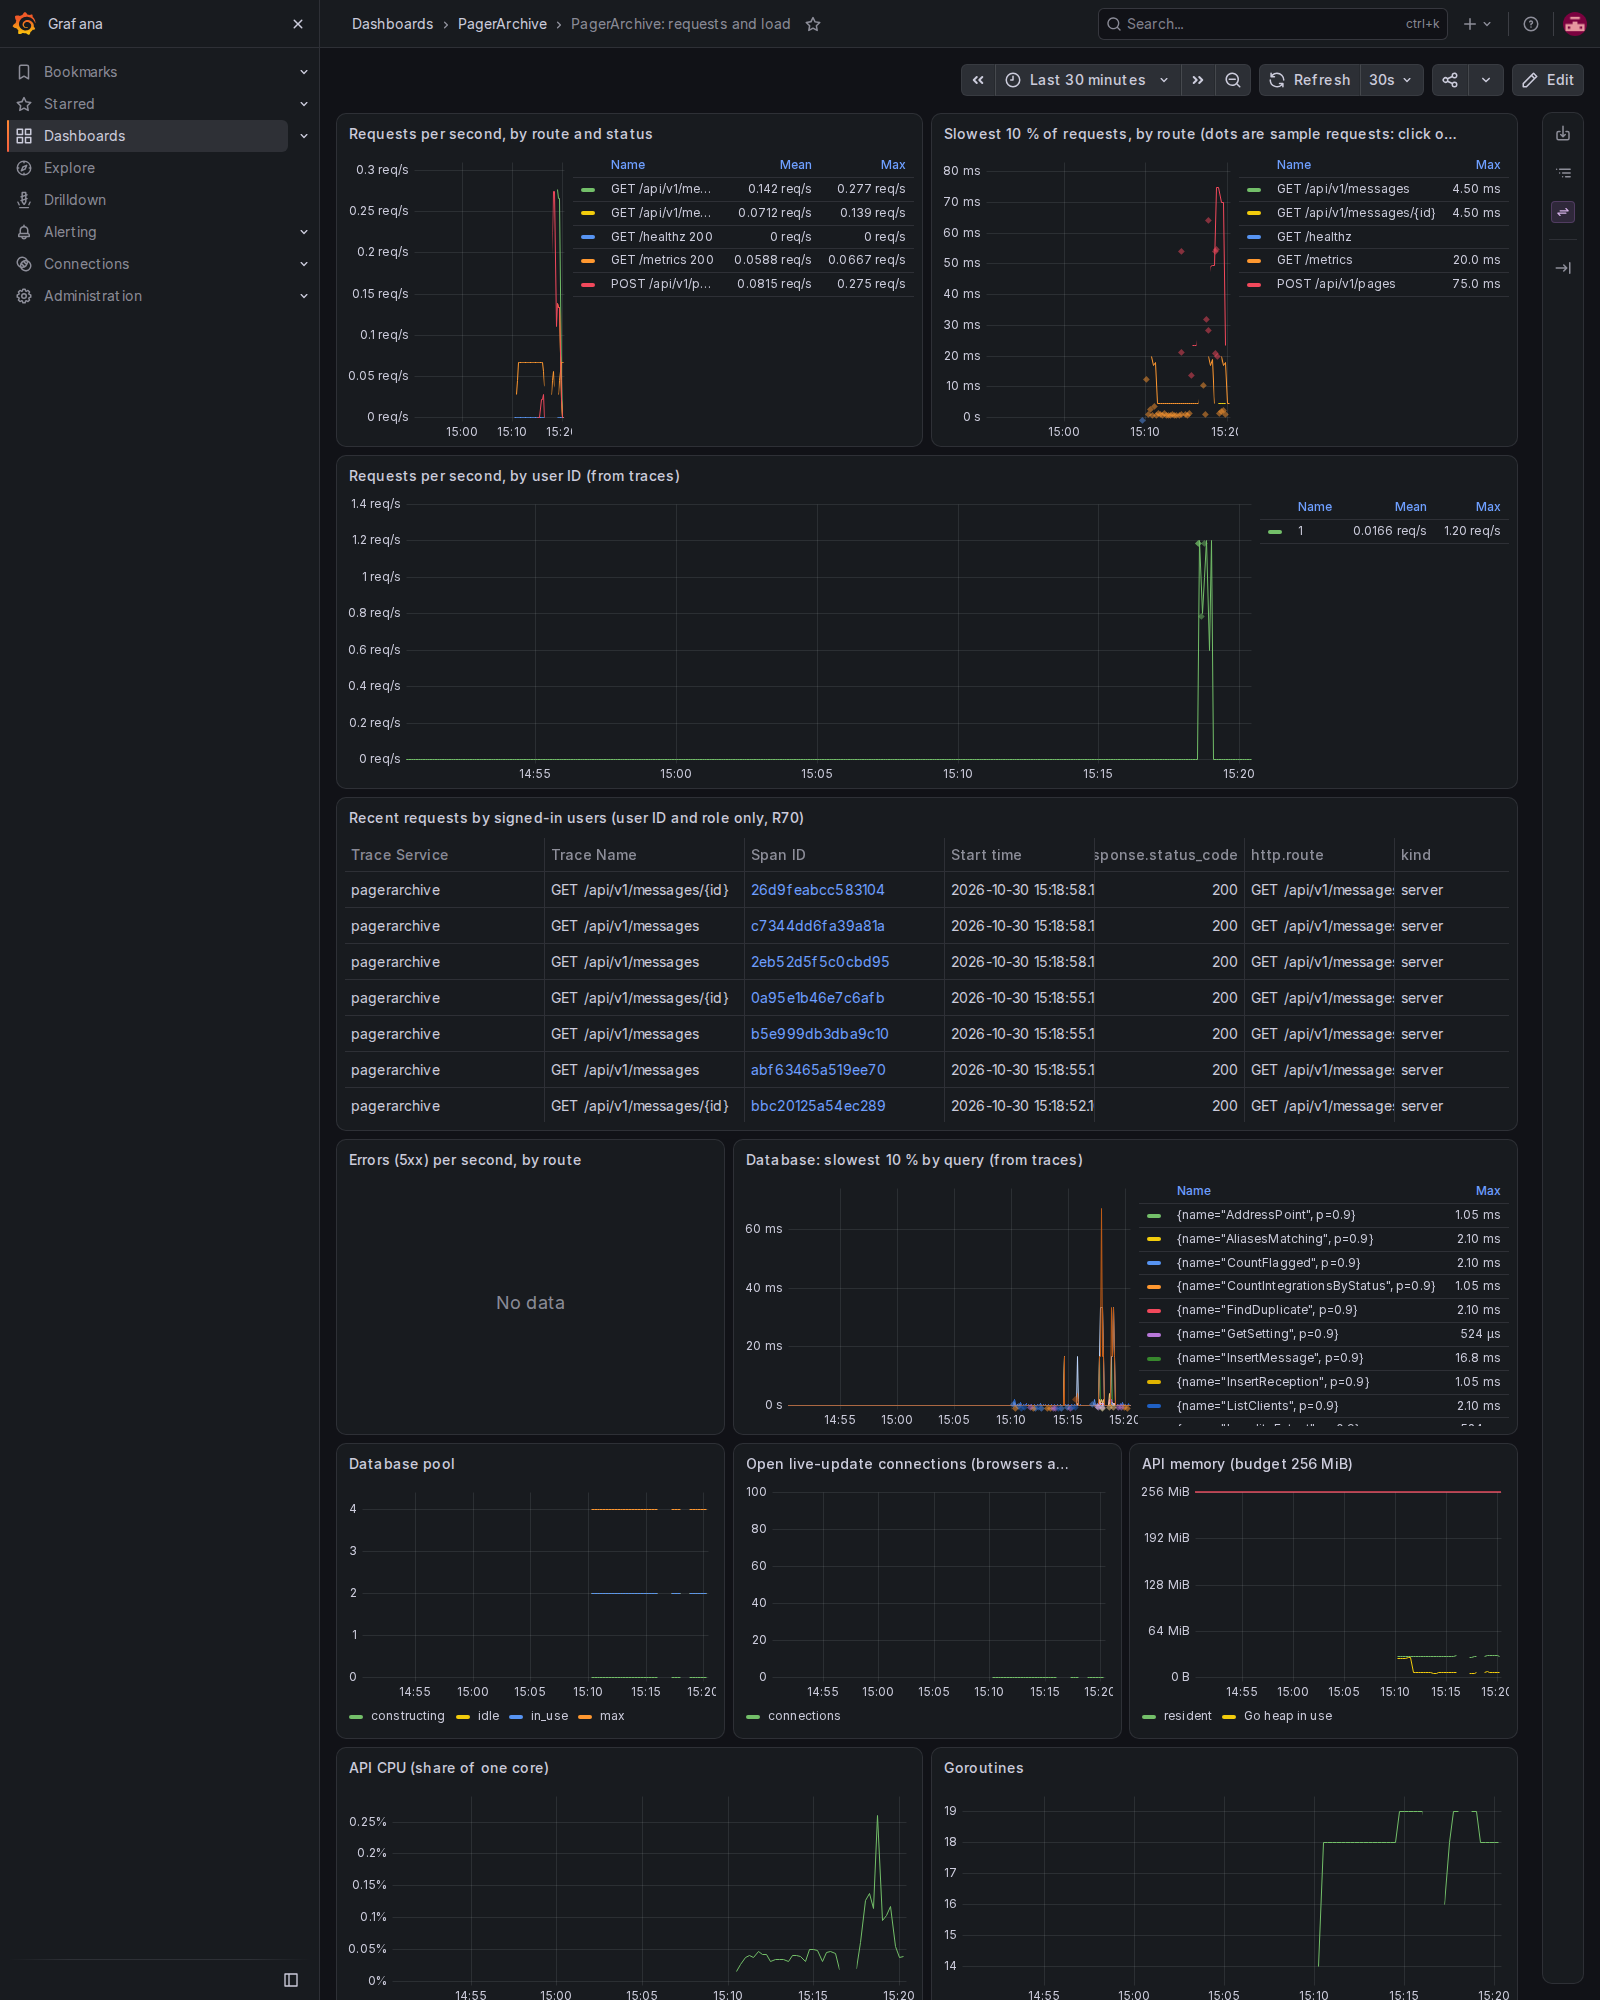
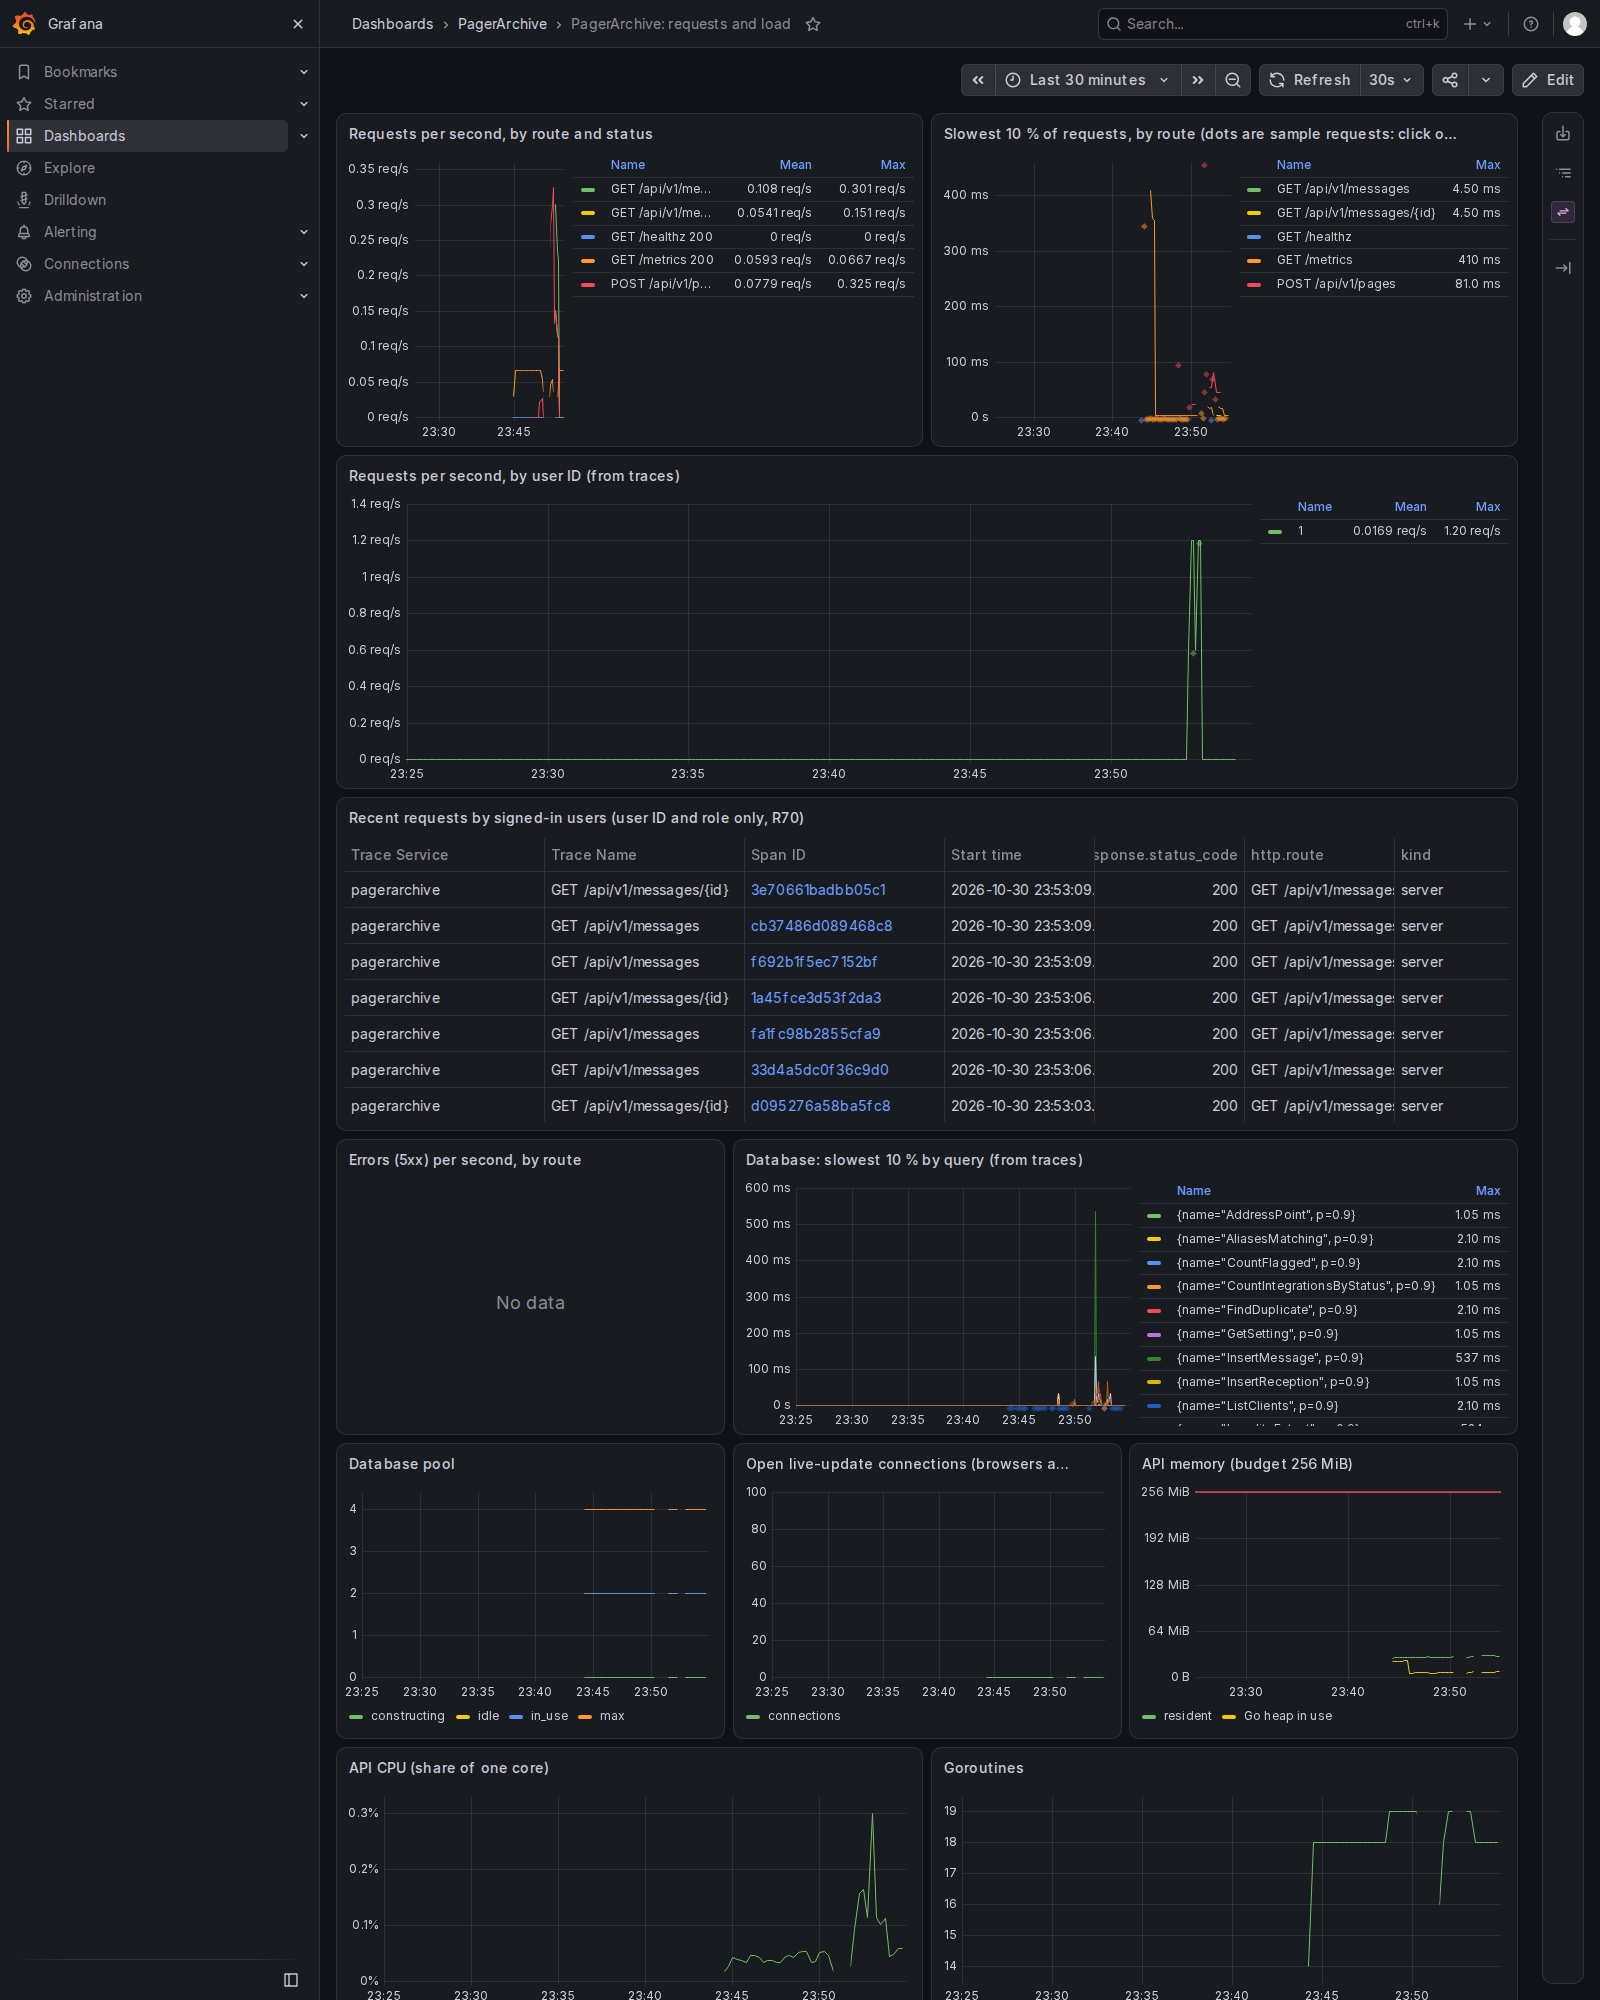
Monitoring stack: Tempo 3.1.1 (monolithic, no Kafka); retention on the backend scheduler and worker, no local-blocks; A65 and the dashboards checked on it; screenshots retaken; ADR 0013 records the check

diff --git a/docs/adr/0013-m12-telemetry.md b/docs/adr/0013-m12-telemetry.md
@@ -186,12 +186,12 @@ Metrics are sent every `OTEL_METRIC_EXPORT_INTERVAL` (the standard 60 s; the doc
 | Service | Image (pinned by digest in the file) | Role |
 |---|---|---|
 | Alloy | `grafana/alloy:v1.21.3` | OTLP receiver on 4318, scrapes `/metrics` every 15 s with the metrics token (OpenMetrics, for exemplars), the second-line allowlist, then to the stores |
-| Tempo | `grafana/tempo:2.10.10` | traces, 7 days; TraceQL metrics (`local-blocks`) for "by user ID" and "time in each step" |
+| Tempo | `grafana/tempo:3.1.1` | traces, 7 days, in one process with no Kafka; TraceQL metrics for "by user ID" and "time in each step" read the stored traces |
 | Loki | `grafana/loki:3.7.9` | logs over OTLP (trace and span IDs as structured metadata), 7 days |
 | Prometheus | `prom/prometheus:v3.15.1` | metrics by remote write from Alloy, with exemplar storage, 30 days |
 | Grafana | `grafana/grafana:13.2.5` | the only published port; admin password from `.env` (`.env.example` shipped), anonymous access and sign-up off |
 
-- **Versions**: the newest stable release of each on 2026-10-30, except Tempo: 2.10.10 rather than 3.1.1. Tempo 3 changes its storage architecture; the 2.10 line is still maintained (2.10.10 was released the same day as 3.1.1), and the config here is the well-known single-binary one. Moving to 3 is a separate step (Question 3).
+- **Versions**: the newest stable release of each on 2026-10-30. Tempo was first 2.10.10 and moved to 3.1.1 at the owner's request ("Tempo 3.1.1", below).
 - **LAN only**: Tempo, Loki and Prometheus are on an `internal` network with no way out. Grafana also joins an ordinary network, because Docker can't publish a port from an internal one. Nothing calls home: Grafana's usage reports, update checks, news and plugin downloads, Loki's and Tempo's usage reports, and Alloy's reporting are off.
 - **Clients on other machines** need Alloy's OTLP port. It isn't published by default (the brief: only Grafana's port); `compose.clients.yaml` publishes it on `ALLOY_OTLP_BIND` for those who want client telemetry from other machines (Question 1).
 - **Provisioned from files**: the three data sources, linked both ways (a Loki line's `trace_id` opens Tempo; a span's logs open Loki; a Prometheus exemplar opens Tempo); the three dashboards (`grafana/dashboards/*.json`: a page's path, requests and load, clients; read-only in Grafana); and the two alert rules (`rules.yaml`).
@@ -317,6 +317,20 @@ Unmutated, the same run: `ok internal/acceptance 229.191s`, `--- PASS: TestA65To
 
 **CI**: run 41003775728 (b66d984), every job passed, publishing after all of them (nothing published from a branch). The last commit's run is in the report.
 
+## Tempo 3.1.1 (owner, 2026-10-31)
+
+The first version of this branch used Tempo 2.10.10, on the grounds that Tempo 3 "changes its storage design". That was from memory, not checked. The owner asked for the check, not wanting to hold back a major release this early in the project.
+
+**What changed in 3** (the 3.0 release notes and "Migrate to 3.0"): the ingester is gone, and writes go through a live store and block builder ("Project Rhythm"). In microservices mode those are joined by Kafka; **in monolithic mode, which is how this stack runs Tempo, everything runs in one process without Kafka**. For our config that means:
+
+- the `ingester` and `compactor` sections are gone: 3.1.1 refuses the 2.10 file (`field ingester not found in type app.Config`). Retention moves to the backend scheduler, which plans it, and the backend worker, which carries it out. Each has its own `block_retention` (the effective config showed the scheduler's still at its default, 336 h, with only the worker's set), so `tempo.yaml` sets both to 168 h;
+- the metrics-generator's `local_blocks` processor is gone: TraceQL metrics (the dashboards' "requests by user ID", "time in each step" and "slowest queries") are answered from the stored traces themselves;
+- `tempo-cli migrate config --mode=monolithic` (3.1.1) stopped on our file (`field traces_storage not found in type generator.Config`), so the new `tempo.yaml` is written by hand, from the effective config 3.1.1 printed (`/status/config`);
+- new defaults that show: searches leave out the newest 30 s (`query_end_cutoff`), and the idle backend worker logs `error calling scheduler … no jobs found` about once a minute. Both are in `docs/monitoring.md`'s troubleshooting;
+- stored traces: nobody runs this stack yet, so there's no 2.10 data to carry over. (3.0 reads 2.x blocks, per the release notes; traces are kept a week anyway.)
+
+**Checked** (cld01, `scripts/monitoring-checks.sh -s`, Tempo 3.1.1): A65 passed (`"Client not receiving" fired … 31s`, `resolved 24s`, `"API unreachable" fired 58s`, `resolved 29s`), and the screenshots, which open a page's trace and the three dashboards with their TraceQL metrics panels, were taken from it. Memory: the monitoring stack alone, idle for a minute, nothing else changed: Tempo 3.1.1 34 MiB against 2.10.10's 127 MiB (Alloy 58 and 48 MiB). In the full run Tempo peaked at 58 MiB idle, 94 MiB during A65 and 224 MiB while dashboards were open, as with 2.10.
+
 ## Consequences
 
 - An operator who runs the example stack can follow one page from the receiver's decoder to each delivery attempt, see where time goes, see which routes and which user numbers made the load, and is told when a receiver goes quiet or the API is unreachable, without any page text, query, secret or address leaving PagerArchive.
@@ -328,7 +342,7 @@ Unmutated, the same run: `ok internal/acceptance 229.191s`, `--- PASS: TestA65To
 
 1. **Clients on other machines and Alloy's OTLP port.** The brief says only Grafana's port is published. R74's client telemetry needs a receiver elsewhere on the LAN to reach Alloy. I left the port unpublished and added `compose.clients.yaml` to publish it on a LAN address when wanted. Anyone who can reach it can send telemetry (Alloy's receiver has no authentication here). Keep it opt-in like this, or publish it by default on the LAN, or add a bearer token on Alloy's receiver (`OTEL_EXPORTER_OTLP_HEADERS` on the clients)?
 2. **The alert threshold lives in `rules.yaml`**, not `.env`, because Grafana doesn't fill settings into alert rules (§9). Fine, or would you rather `.env` drove it (Grafana's container would then write `rules.yaml` from a template at start)?
-3. **Tempo 2.10 rather than 3.1** (§9). Keep 2.10 for now?
+3. ~~Tempo 2.10 rather than 3.1?~~ Answered (owner, 2026-10-31): don't hold back a major release this early. Moved to 3.1.1 ("Tempo 3.1.1", below).
 4. **Resource attributes**: only standard keys are kept from `OTEL_RESOURCE_ATTRIBUTES` (§3). A deployment wanting its own (`site=north`) would see them dropped. Keep it strict?
 5. **Integration IDs in telemetry**: delivery spans and exported log lines don't carry the integration's ID (R70 names message, alias and job IDs; I treated integrations the same, as things users own). Troubleshooting one failing integration then means the app's own delivery list. Keep them out?
 6. **A33 failed once on cld01** (Evidence) and passed on the immediate rerun and in every CI run. Shall I look into making that check (or the lock it tests) robust to slow recording of failed codes, as a separate piece of work?

diff --git a/docs/monitoring.md b/docs/monitoring.md
@@ -188,7 +188,7 @@ Measured on the test machine (`scripts/monitoring-checks.sh`, two runs on 2026-1
 | Prometheus | 40–44 MiB | 42–46 MiB | 85–94 MiB |
 | **All five** (sum of each one's peak) | **618–752 MiB** | **638–832 MiB** | **960–1,334 MiB** |
 
-Grafana is most of it, and varies most between runs. Plan on about 1 GB, more while someone has dashboards open.
+Grafana is most of it, and varies most between runs. Plan on about 1 GB, more while someone has dashboards open. (These runs used Tempo 2.10.10. Tempo 3.1.1, now in `compose.yaml`, used about a quarter as much idle: 34 MiB against 127 MiB, measured side by side with nothing else running.)
 
 The stack isn't counted in PagerArchive's resource budget (like Authentik). On disk, traces and logs are kept 7 days (`tempo/tempo.yaml`'s `block_retention`, `loki/loki.yaml`'s `retention_period`) and metrics 30 days (`METRICS_RETENTION` in `.env`). At hobby scale (about a page a minute) that's well under a gigabyte.
 
@@ -220,8 +220,10 @@ Trace context travels as W3C `traceparent` only; `OTEL_PROPAGATORS` is ignored a
 - **Metrics but no traces or logs:** `OTEL_EXPORTER_OTLP_ENDPOINT` isn't set on the API (after adding it, `docker compose up -d api` recreates the API with it). The API's log says `telemetry on` when it's set.
 - **The API's log says "dropping telemetry":** it can't reach Alloy. Is the monitoring stack running? `docker compose ps` in `deploy/monitoring`.
 - **No client metrics:** the client needs `OTEL_EXPORTER_OTLP_ENDPOINT`, and a client on another machine needs `compose.clients.yaml` and a reachable `ALLOY_OTLP_BIND`. It sends metrics every `OTEL_METRIC_EXPORT_INTERVAL` (default a minute).
+- **Tempo logs `error calling scheduler` … `no jobs found`** about once a minute: its background worker asking for compaction or retention work when there is none. It's harmless.
+- **A trace from the last 30 seconds isn't found yet:** Tempo 3 leaves the newest 30 s out of searches (`query_end_cutoff`) while it's still being written. Wait a moment and search again.
 - **A span named `unnamed`:** the app saw a span name that isn't on its allowlist. Report it: it's a bug, and nothing private left with it.
 
 ## Upgrading the stack
 
-Each image is pinned by version and digest in `compose.yaml` (`grafana/grafana:13.2.5@sha256:...`), so `docker compose pull` never changes anything by surprise. To upgrade, change both the version and the digest (`docker buildx imagetools inspect grafana/grafana:<version>` shows the digest), read the release notes, and run `scripts/monitoring-checks.sh`, which checks the alerts end to end. Tempo is on its 2.10 line, which is still maintained; Tempo 3 changes how it stores data, and moving to it is a separate step.
+Each image is pinned by version and digest in `compose.yaml` (`grafana/grafana:13.2.5@sha256:...`), so `docker compose pull` never changes anything by surprise. To upgrade, change both the version and the digest (`docker buildx imagetools inspect grafana/grafana:<version>` shows the digest), read the release notes, and run `scripts/monitoring-checks.sh`, which checks the alerts end to end.
